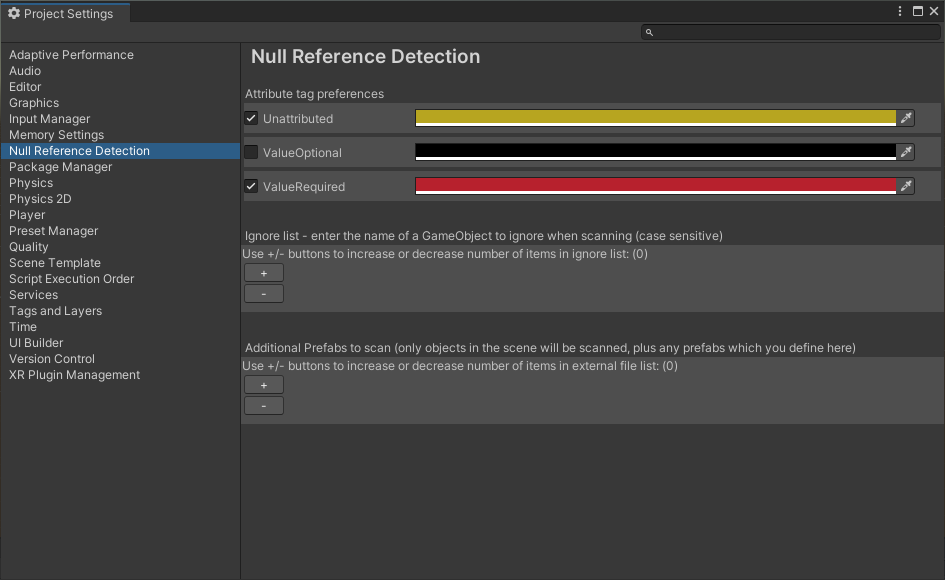
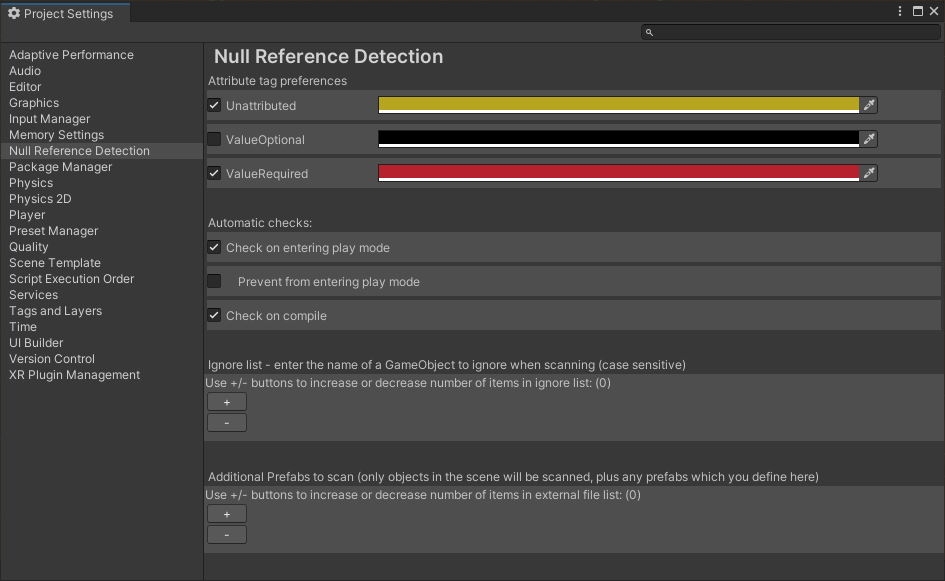
Updates documentation

diff --git a/Assets/Scripts/NullReferenceDetection/Editor/FindNullReferencesPreferences.cs b/Assets/Scripts/NullReferenceDetection/Editor/FindNullReferencesPreferences.cs
@@ -78,7 +78,7 @@ namespace NullReferenceDetection.Editor
             EditorGUILayout.LabelField("Automatic checks:");
             GUILayout.Space(5);
 
-            HandleToggle(PersistableBoolean.CheckOnPlay, "Check on play");
+            HandleToggle(PersistableBoolean.CheckOnPlay, "Check on entering play mode");
 
             if (PersistableBoolean.CheckOnPlay)
             {

diff --git a/Readme.md b/Readme.md
@@ -49,6 +49,8 @@ If you now execute the plug-in via `Tools > Find Null References` the console wi
 
 You can open the preferences window by navigating to `Edit -> Project Settings -> Null Reference Detection` where you can define which occurences of null references should be printed to the console. You can also change their text color.
 
+If you want to automatically check for null references, you can do so by activating checks on entering play mode or on compilation. You can also prevent Unity from entering play mode if any null references were found.
+
 ![alt text](https://raw.githubusercontent.com/Moolt/Unity-Null-Reference-Detection/master/Documentation/settings_screen.png "preferences")
 
 Additionally in the preferences window you can define a list of GameObjects for which null references will be ignored, this is like the [ValueOptional] tag but affects the entire GameObject (and it's children, if the checkbox is ticked).
